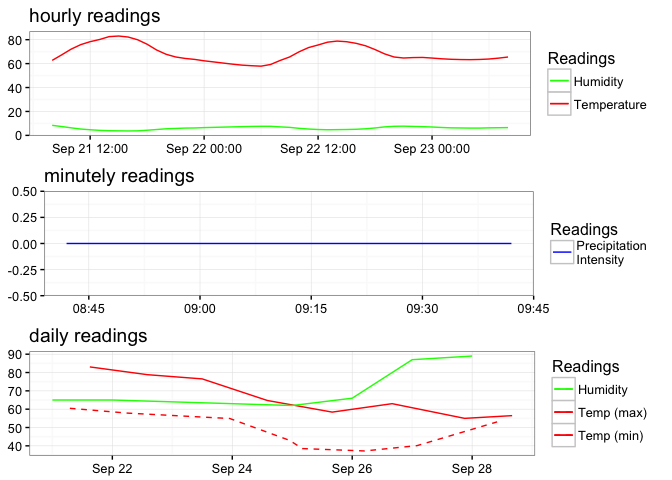
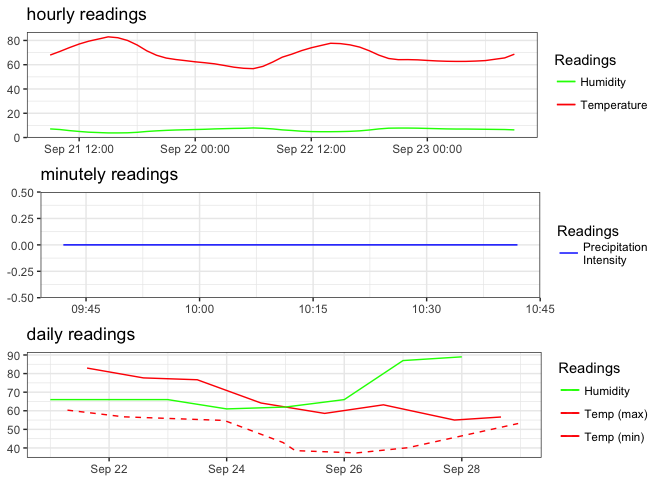
travis

diff --git a/README.md b/README.md
@@ -8,10 +8,10 @@
 
 The following functions are implemented:
 
--   `darksky_api_key` : Get or set DARKSKY\_API\_KEY value
+-   `darksky_api_key` : Get or set `DARKSKY_API_KEY` value
 -   `get_current_forecast` : Retrieve the current forecast (for the next week)
 -   `get_forecast_for` : Retrieve weather data for a specific place/time
--   `plot.darksky` : Plot method for rforecastio objects
+-   `plot.darksky` : Plot method for `darksky` objects
 -   `print.darksky` : A tad more human readable default printing
 
 ### Installation
@@ -41,7 +41,7 @@ print(now)
     ## ======================================================================================================================== 
     ## Observations: 61
     ## Variables: 3
-    ## $ time              <dttm> 2016-09-21 08:42:00, 2016-09-21 08:43:00, 2016-09-21 08:44:00, 2016-09-21 08:45:00, 2016...
+    ## $ time              <dttm> 2016-09-21 09:42:00, 2016-09-21 09:43:00, 2016-09-21 09:44:00, 2016-09-21 09:45:00, 2016...
     ## $ precipIntensity   <int> 0, 0, 0, 0, 0, 0, 0, 0, 0, 0, 0, 0, 0, 0, 0, 0, 0, 0, 0, 0, 0, 0, 0, 0, 0, 0, 0, 0, 0, 0,...
     ## $ precipProbability <int> 0, 0, 0, 0, 0, 0, 0, 0, 0, 0, 0, 0, 0, 0, 0, 0, 0, 0, 0, 0, 0, 0, 0, 0, 0, 0, 0, 0, 0, 0,...
     ## 
@@ -49,21 +49,21 @@ print(now)
     ## ======================================================================================================================== 
     ## Observations: 49
     ## Variables: 16
-    ## $ time                <dttm> 2016-09-21 08:00:00, 2016-09-21 09:00:00, 2016-09-21 10:00:00, 2016-09-21 11:00:00, 20...
+    ## $ time                <dttm> 2016-09-21 09:00:00, 2016-09-21 10:00:00, 2016-09-21 11:00:00, 2016-09-21 12:00:00, 20...
     ## $ summary             <chr> "Clear", "Clear", "Clear", "Clear", "Clear", "Clear", "Clear", "Clear", "Clear", "Clear...
     ## $ icon                <chr> "clear-day", "clear-day", "clear-day", "clear-day", "clear-day", "clear-day", "clear-da...
     ## $ precipIntensity     <dbl> 0, 0, 0, 0, 0, 0, 0, 0, 0, 0, 0, 0, 0, 0, 0, 0, 0, 0, 0, 0, 0, 0, 0, 0, 0, 0, 0, 0, 0, ...
     ## $ precipProbability   <dbl> 0, 0, 0, 0, 0, 0, 0, 0, 0, 0, 0, 0, 0, 0, 0, 0, 0, 0, 0, 0, 0, 0, 0, 0, 0, 0, 0, 0, 0, ...
-    ## $ temperature         <dbl> 62.69, 67.31, 72.11, 75.84, 78.34, 80.17, 82.57, 83.06, 82.22, 79.93, 76.19, 71.37, 67....
-    ## $ apparentTemperature <dbl> 62.69, 67.31, 72.11, 75.84, 78.34, 80.24, 81.80, 82.08, 81.32, 79.93, 76.19, 71.37, 67....
-    ## $ dewPoint            <dbl> 57.78, 58.82, 59.03, 57.68, 56.15, 55.16, 54.95, 54.56, 53.48, 52.32, 51.73, 51.14, 50....
-    ## $ humidity            <dbl> 0.84, 0.74, 0.63, 0.53, 0.47, 0.42, 0.39, 0.38, 0.37, 0.38, 0.43, 0.49, 0.55, 0.58, 0.6...
-    ## $ windSpeed           <dbl> 7.04, 7.30, 7.12, 6.36, 6.46, 6.24, 5.82, 5.94, 5.44, 5.16, 4.32, 3.34, 3.30, 3.61, 4.0...
-    ## $ windBearing         <int> 291, 297, 299, 301, 293, 284, 275, 272, 269, 264, 261, 253, 252, 255, 260, 266, 271, 27...
-    ## $ visibility          <dbl> 9.32, 9.40, 9.91, 10.00, 10.00, 10.00, 10.00, 10.00, 10.00, 10.00, 10.00, 10.00, 10.00,...
-    ## $ cloudCover          <dbl> 0.11, 0.13, 0.17, 0.19, 0.21, 0.21, 0.24, 0.21, 0.17, 0.16, 0.16, 0.19, 0.20, 0.18, 0.1...
-    ## $ pressure            <dbl> 1020.71, 1020.13, 1020.23, 1020.28, 1020.19, 1019.96, 1019.74, 1019.55, 1019.40, 1019.4...
-    ## $ ozone               <dbl> 268.86, 268.89, 268.71, 268.54, 268.48, 268.42, 268.21, 267.76, 267.15, 266.60, 266.18,...
+    ## $ temperature         <dbl> 67.95, 70.92, 74.12, 77.05, 79.42, 81.18, 82.97, 82.24, 80.00, 76.24, 71.42, 67.80, 65....
+    ## $ apparentTemperature <dbl> 67.95, 70.92, 74.12, 77.05, 79.42, 80.86, 82.11, 81.43, 79.86, 76.24, 71.42, 67.80, 65....
+    ## $ dewPoint            <dbl> 58.24, 58.80, 57.98, 56.86, 55.81, 55.05, 55.05, 54.07, 52.83, 51.97, 51.69, 51.24, 50....
+    ## $ humidity            <dbl> 0.71, 0.66, 0.57, 0.50, 0.44, 0.41, 0.38, 0.38, 0.39, 0.43, 0.50, 0.55, 0.59, 0.62, 0.6...
+    ## $ windSpeed           <dbl> 7.88, 6.81, 6.33, 5.52, 5.29, 5.36, 5.46, 5.62, 5.39, 4.33, 3.49, 3.38, 3.79, 4.18, 4.4...
+    ## $ windBearing         <int> 308, 306, 303, 299, 289, 279, 268, 265, 266, 263, 259, 256, 259, 263, 269, 275, 279, 28...
+    ## $ visibility          <dbl> 9.90, 9.96, 10.00, 10.00, 10.00, 10.00, 10.00, 10.00, 10.00, 10.00, 10.00, 10.00, 10.00...
+    ## $ cloudCover          <dbl> 0.09, 0.15, 0.20, 0.22, 0.18, 0.11, 0.07, 0.07, 0.06, 0.04, 0.04, 0.05, 0.11, 0.17, 0.2...
+    ## $ pressure            <dbl> 1020.18, 1020.32, 1020.35, 1020.21, 1019.96, 1019.74, 1019.55, 1019.40, 1019.40, 1019.6...
+    ## $ ozone               <dbl> 268.89, 268.71, 268.54, 268.48, 268.42, 268.21, 267.76, 267.15, 266.60, 266.18, 265.81,...
     ## $ precipType          <chr> NA, NA, NA, NA, NA, NA, NA, NA, NA, NA, NA, NA, NA, NA, NA, NA, NA, NA, NA, NA, NA, NA,...
     ## 
     ## daily 
@@ -79,21 +79,21 @@ print(now)
     ## $ precipIntensity            <dbl> 0.0000, 0.0000, 0.0027, 0.0000, 0.0000, 0.0000, 0.0143, 0.0138
     ## $ precipIntensityMax         <dbl> 0.0000, 0.0000, 0.0147, 0.0000, 0.0000, 0.0000, 0.0371, 0.0388
     ## $ precipProbability          <dbl> 0.00, 0.00, 0.45, 0.00, 0.00, 0.00, 0.54, 0.55
-    ## $ temperatureMin             <dbl> 60.48, 57.86, 54.91, 42.95, 38.50, 37.21, 40.12, 53.07
+    ## $ temperatureMin             <dbl> 60.34, 56.74, 54.80, 42.92, 38.56, 37.33, 40.13, 53.14
     ## $ temperatureMinTime         <dttm> 2016-09-21 07:00:00, 2016-09-22 06:00:00, 2016-09-23 23:00:00, 2016-09-24 23:00...
-    ## $ temperatureMax             <dbl> 83.06, 78.83, 76.52, 64.76, 58.40, 63.01, 54.99, 56.48
+    ## $ temperatureMax             <dbl> 82.97, 77.68, 76.68, 64.18, 58.58, 63.20, 55.01, 56.65
     ## $ temperatureMaxTime         <dttm> 2016-09-21 15:00:00, 2016-09-22 14:00:00, 2016-09-23 12:00:00, 2016-09-24 14:00...
-    ## $ apparentTemperatureMin     <dbl> 60.48, 57.86, 54.91, 40.28, 34.14, 33.64, 40.12, 53.07
+    ## $ apparentTemperatureMin     <dbl> 60.34, 56.74, 54.80, 40.24, 34.30, 33.78, 40.13, 53.14
     ## $ apparentTemperatureMinTime <dttm> 2016-09-21 07:00:00, 2016-09-22 06:00:00, 2016-09-23 23:00:00, 2016-09-24 23:00...
-    ## $ apparentTemperatureMax     <dbl> 82.08, 78.83, 76.52, 64.76, 58.40, 63.01, 54.99, 56.48
+    ## $ apparentTemperatureMax     <dbl> 82.11, 77.68, 76.68, 64.18, 58.58, 63.20, 55.01, 56.65
     ## $ apparentTemperatureMaxTime <dttm> 2016-09-21 15:00:00, 2016-09-22 14:00:00, 2016-09-23 12:00:00, 2016-09-24 14:00...
-    ## $ dewPoint                   <dbl> 55.75, 54.48, 53.50, 39.76, 33.19, 36.34, 43.89, 51.29
-    ## $ humidity                   <dbl> 0.65, 0.65, 0.64, 0.63, 0.62, 0.66, 0.87, 0.89
-    ## $ windSpeed                  <dbl> 4.66, 1.67, 3.81, 6.46, 7.01, 2.88, 4.35, 8.62
-    ## $ windBearing                <int> 276, 173, 253, 314, 312, 277, 7, 59
-    ## $ visibility                 <dbl> 9.65, 10.00, 10.00, 10.00, NA, NA, NA, NA
-    ## $ cloudCover                 <dbl> 0.16, 0.10, 0.50, 0.06, 0.00, 0.05, 0.92, 1.00
-    ## $ pressure                   <dbl> 1019.57, 1020.49, 1015.55, 1018.06, 1019.44, 1019.53, 1019.43, 1024.68
+    ## $ dewPoint                   <dbl> 55.99, 54.08, 54.32, 38.89, 33.29, 36.45, 44.02, 51.41
+    ## $ humidity                   <dbl> 0.66, 0.66, 0.66, 0.61, 0.62, 0.66, 0.87, 0.89
+    ## $ windSpeed                  <dbl> 4.50, 1.44, 4.07, 6.83, 7.01, 2.88, 4.35, 8.62
+    ## $ windBearing                <int> 279, 166, 247, 308, 312, 277, 7, 59
+    ## $ visibility                 <dbl> 9.87, 10.00, 10.00, 10.00, NA, NA, NA, NA
+    ## $ cloudCover                 <dbl> 0.11, 0.07, 0.49, 0.06, 0.00, 0.05, 0.92, 1.00
+    ## $ pressure                   <dbl> 1019.58, 1020.49, 1015.55, 1018.06, 1019.44, 1019.53, 1019.43, 1024.68
     ## $ ozone                      <dbl> 267.11, 259.91, 267.42, 306.79, 314.66, 298.59, 289.30, 291.89
     ## $ precipIntensityMaxTime     <dttm> NA, NA, 2016-09-23 20:00:00, NA, NA, NA, 2016-09-27 23:00:00, 2016-09-28 01:00:00
     ## $ precipType                 <chr> NA, NA, "rain", NA, NA, NA, "rain", "rain"
@@ -102,23 +102,23 @@ print(now)
     ## ======================================================================================================================== 
     ## Observations: 1
     ## Variables: 17
-    ## $ time                 <dttm> 2016-09-21 08:42:49
+    ## $ time                 <dttm> 2016-09-21 09:42:30
     ## $ summary              <chr> "Clear"
     ## $ icon                 <chr> "clear-day"
-    ## $ nearestStormDistance <int> 73
-    ## $ nearestStormBearing  <int> 217
+    ## $ nearestStormDistance <int> 109
+    ## $ nearestStormBearing  <int> 204
     ## $ precipIntensity      <int> 0
     ## $ precipProbability    <int> 0
-    ## $ temperature          <dbl> 65.98
-    ## $ apparentTemperature  <dbl> 65.98
-    ## $ dewPoint             <dbl> 58.57
-    ## $ humidity             <dbl> 0.77
-    ## $ windSpeed            <dbl> 7.22
-    ## $ windBearing          <int> 295
-    ## $ visibility           <dbl> 9.37
-    ## $ cloudCover           <dbl> 0.12
-    ## $ pressure             <dbl> 1020.3
-    ## $ ozone                <dbl> 268.88
+    ## $ temperature          <dbl> 70.06
+    ## $ apparentTemperature  <dbl> 70.06
+    ## $ dewPoint             <dbl> 58.66
+    ## $ humidity             <dbl> 0.67
+    ## $ windSpeed            <dbl> 7.12
+    ## $ windBearing          <int> 307
+    ## $ visibility           <dbl> 9.94
+    ## $ cloudCover           <dbl> 0.13
+    ## $ pressure             <dbl> 1020.28
+    ## $ ozone                <dbl> 268.76
 
 ``` r
 then <- get_forecast_for(43.2672, -70.8617, "2013-05-06T12:00:00-0400", add_headers=TRUE)
@@ -343,7 +343,7 @@ bigger_list$Maine
 print(sprintf("You have used %s API calls.", then$`x-forecast-api-calls`))
 ```
 
-    ## [1] "You have used 75 API calls."
+    ## [1] "You have used 8 API calls."
 
 ``` r
 plot(now)
@@ -369,7 +369,7 @@ library(testthat)
 date()
 ```
 
-    ## [1] "Wed Sep 21 08:42:51 2016"
+    ## [1] "Wed Sep 21 09:42:33 2016"
 
 ``` r
 test_dir("tests/")
@@ -379,4 +379,3 @@ test_dir("tests/")
     ## OK: 4 SKIPPED: 0 FAILED: 0
     ## 
     ## DONE ===================================================================================================================
-    ## Woot!
